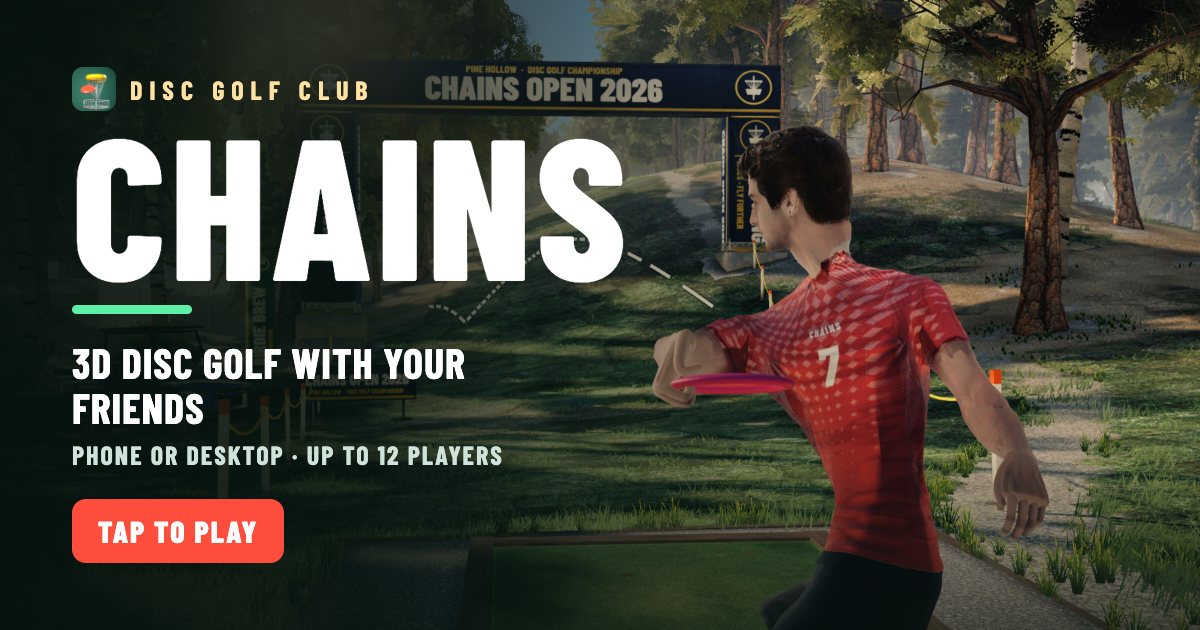
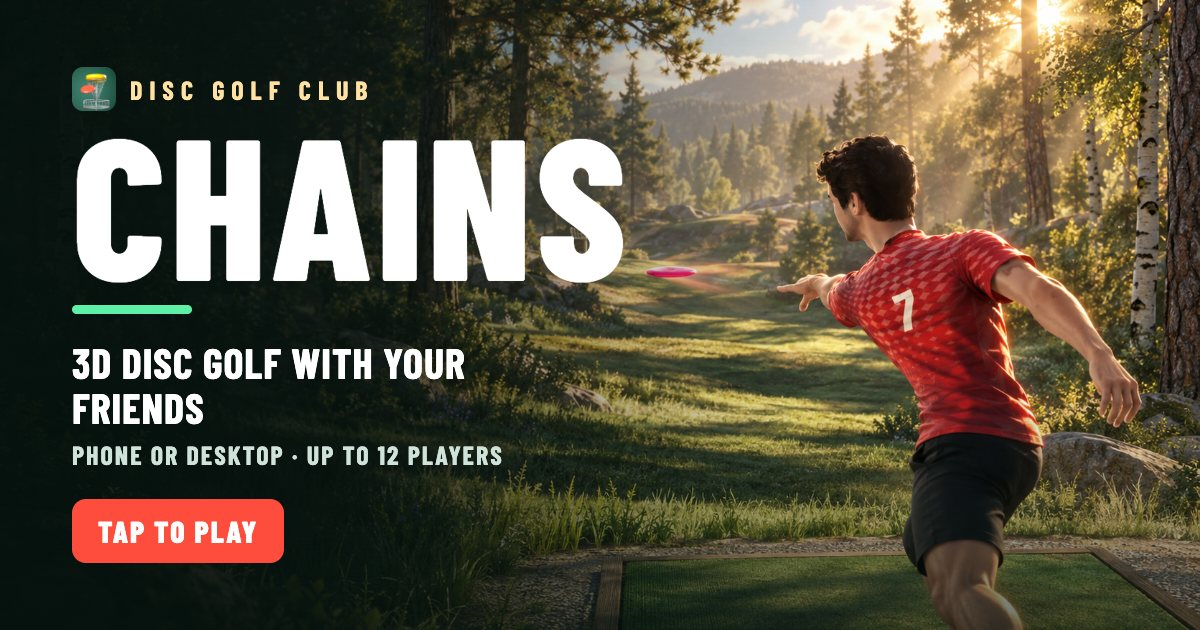
feat(art): ChatGPT and Gemini key art on the loading screen and link previews
- Loading screen shows ChatGPT's wide key art on landscape screens (wordmark over
  the dark left third) and Gemini's tall key art on portrait phones (wordmark
  over the canopy); the wordmark scales with the viewport.
- The Open Graph card is rebuilt on the ChatGPT key art.
- Masters, sizes and the exact prompts live in art/keyart.

diff --git a/src/ui.css b/src/ui.css
@@ -233,10 +233,22 @@ ul.list li { display: flex; justify-content: space-between; margin-bottom: 6px; 
 .kbd { display: inline-block; padding: 2px 6px; border: 1px solid var(--border); border-radius: 5px; font-size: 12px; background: #ffffff10; }
 #help .instructions > div { padding: 0 0 12px; border-bottom: 1px solid #ffffff14; color: #36576b; font-size: 13px; line-height: 1.6; }
 #help .instructions b { color: var(--text); }
-#loading { position: fixed; inset: 0; display: flex; align-items: center; justify-content: center; flex-direction: column; gap: 14px; background: linear-gradient(0deg, #06120ee6, #06120e8c 55%, #06120eb3), url('../assets/courses/pine_card.jpg') center / cover, var(--ink); z-index: 50; color: #d6e6de; }
-#loading .load-brand { color: #fff; font-family: var(--display); font-size: 72px; font-weight: 800; text-transform: uppercase; letter-spacing: 1px; line-height: .9; text-align: center; margin-bottom: 10px; text-shadow: 0 4px 22px #0008; }
-#loading .load-brand small { display: block; font-size: 14px; letter-spacing: 5px; color: #ffe1a3; margin-bottom: 6px; }
-#loading .load-brand::after { content: ''; display: block; width: 56px; height: 5px; background: var(--mint); margin: 12px auto 0; transform: skewX(-24deg); }
+/* Key art (art/keyart: ChatGPT wide, Gemini tall): the wordmark sits in each image's calm area, the dark left third
+   on landscape screens and the canopy on portrait phones. */
+#loading { position: fixed; inset: 0; display: flex; justify-content: center; flex-direction: column; gap: 14px; z-index: 50; color: #d6e6de;
+  align-items: flex-start; padding: 0 max(6vw, 24px);
+  background: linear-gradient(90deg, #06120ef0, #06120ea6 32%, #06120e1f 62%, transparent), url('../assets/keyart/keyart-wide.jpg') 70% center / cover, var(--ink); }
+#loading .load-brand { text-align: left; }
+#loading .load-brand::after { margin-left: 2px; }
+@media (orientation: portrait) {
+  #loading { align-items: center; justify-content: flex-start; padding: calc(12vh + var(--sat)) 24px 0;
+    background: linear-gradient(180deg, #06120ee0, #06120e8c 30%, #06120e14 55%, transparent), url('../assets/keyart/keyart-tall.jpg') center 70% / cover, var(--ink); }
+  #loading .load-brand { text-align: center; }
+  #loading .load-brand::after { margin: 12px auto 0; }
+}
+#loading .load-brand { color: #fff; font-family: var(--display); font-size: clamp(60px, 8vw, 128px); font-weight: 800; text-transform: uppercase; letter-spacing: 1px; line-height: .9; margin-bottom: 10px; text-shadow: 0 4px 22px #0008; }
+#loading .load-brand small { display: block; font-size: clamp(13px, 1.1vw, 18px); letter-spacing: 5px; color: #ffe1a3; margin-bottom: 6px; }
+#loading .load-brand::after { content: ''; display: block; width: 56px; height: 5px; background: var(--mint); margin-top: 12px; transform: skewX(-24deg); }
 #loading .muted { color: #d6e6de; }
 .spin { width: 42px; height: 42px; border: 2px solid #ffffff20; border-top-color: var(--accent); border-radius: 50%; animation: rot 1s linear infinite; }
 @keyframes rot { to {transform:rotate(360deg)} }

diff --git a/README.md b/README.md
@@ -181,6 +181,8 @@ blender --background --python tools/build-golfer-v2.py   # previous lofted athle
 blender --background --python tools/build-disc.py        # lathed disc with mould text
 blender --background --python tools/render-icon.py       # app icon: the game's basket and a disc in the chains (Cycles) -> art/icon/icon-render.png
 node tools/pack-icons.mjs                                 # apple-touch, PWA and favicon sizes from that render (ffmpeg)
+# Key art for the loading screen and link previews: art/keyart (ChatGPT wide, Gemini tall; prompts in art/keyart/prompts.json),
+# scaled into assets/keyart/ with ffmpeg
 python tools/split-golfer-clips.py
 # Rebuild the current authored motion set after rebuilding the body:
 node tools/extract-poses.mjs
